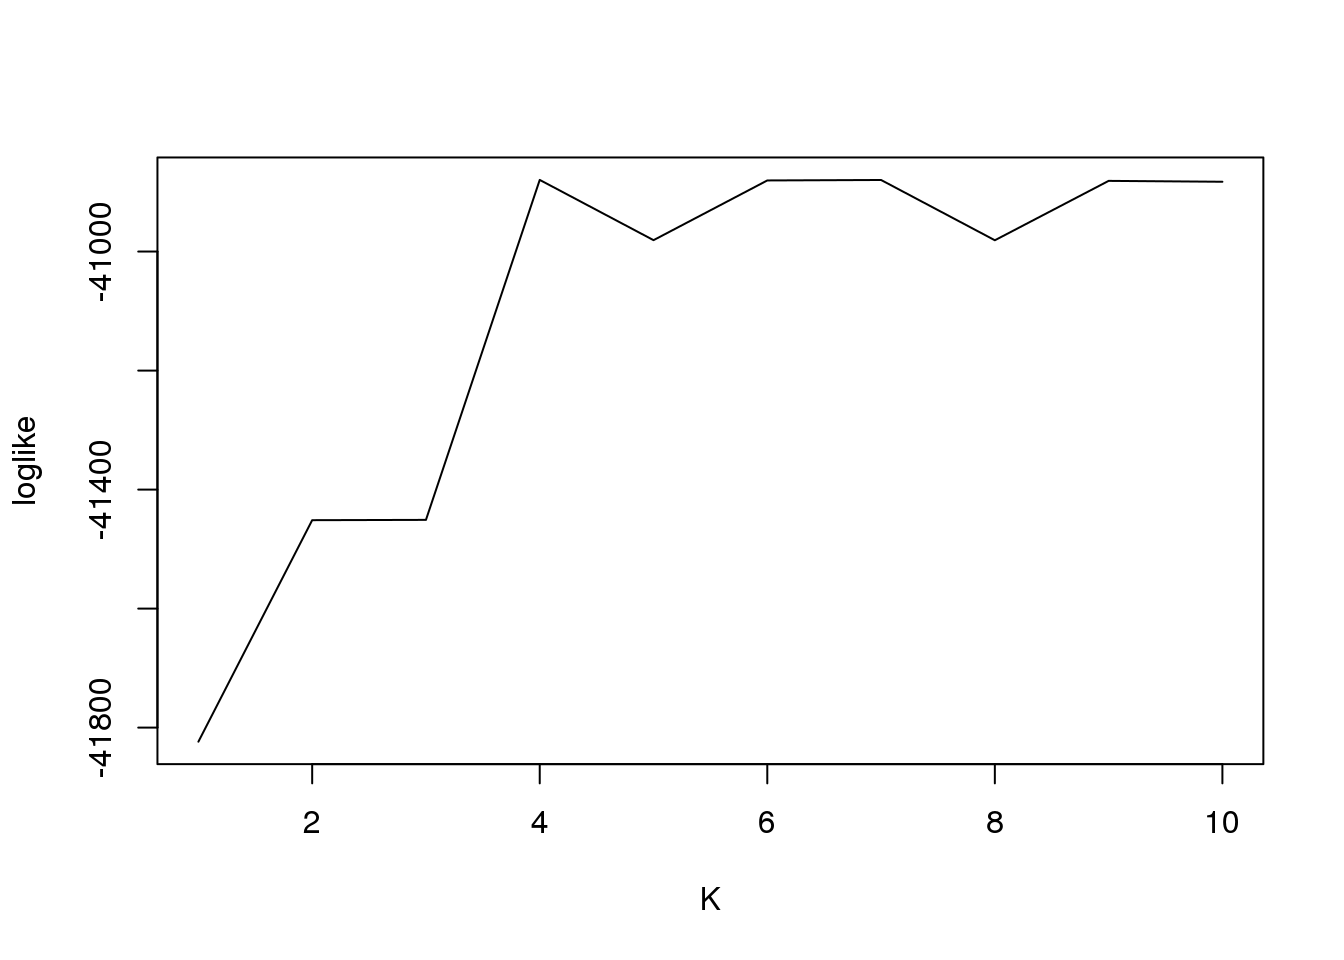
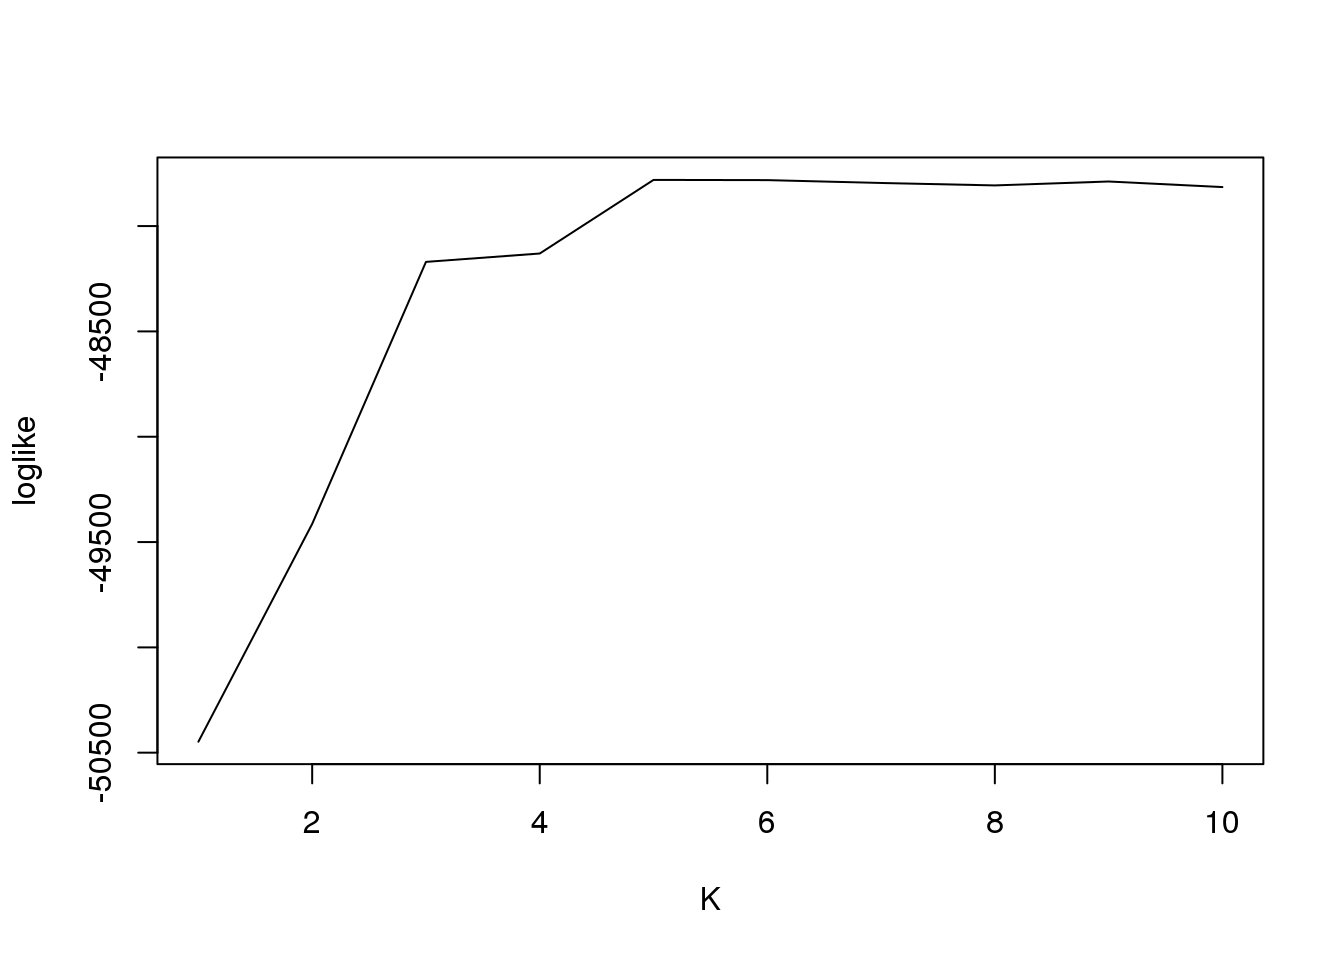
Build site.

diff --git a/docs/Trend_of_loglike.html b/docs/Trend_of_loglike.html
@@ -310,18 +310,33 @@ div.tocify {
 
 <!-- The file analysis/chunks.R contains chunks that define default settings
 shared across the workflowr files. -->
+
+
 <!-- Update knitr chunk options -->
+
+
 <!-- Insert the date the file was last updated -->
 <p><strong>Last updated:</strong> 2017-09-28</p>
 <!-- Insert the code version (Git commit SHA1) if Git repository exists and R
  package git2r is installed -->
-<p><strong>Code version:</strong> 2b43fc0</p>
+<p><strong>Code version:</strong> cdd4dd2</p>
 <!-- Add your analysis here -->
+
+
+
 <div id="simulation-1" class="section level2">
 <h2>Simulation 1</h2>
-<p>We set unit number <span class="math inline">\(n = 5000\)</span>, and study number <span class="math inline">\(R = 4\)</span>. We set every observation has the same standard error, <span class="math inline">\(s_{jr}=1\)</span>. That is <span class="math inline">\(\hat\beta_{jr}|\beta_{jr}\sim N(\beta_{jr};0,1)\)</span>. The 5000 units come from 4 patterns (<span class="math inline">\(K=4\)</span>): 2500 units have zero effects in all four studies, that is <span class="math inline">\(\beta_{jr}=0\)</span>, for <span class="math inline">\(r = 1,2,3,4\)</span>; 1000 units have effect <span class="math inline">\(\beta_{jr}\sim N(0,4^2)\)</span> for <span class="math inline">\(r =1, 2\)</span> and <span class="math inline">\(\beta_{jr}=0\)</span> for <span class="math inline">\(r =3, 4\)</span>; 1000 units have effect <span class="math inline">\(\beta_{jr}\sim N(0,4^2)\)</span> for <span class="math inline">\(r =3, 4\)</span> and <span class="math inline">\(\beta_{jr}=0\)</span> for <span class="math inline">\(r = 1, 2\)</span>; 500 unitss have effect <span class="math inline">\(\beta_{jr}\sim N(0,4^2)\)</span> for <span class="math inline">\(r =1, 2,3,4\)</span>.</p>
-<p>To fit the model, set <span class="math inline">\(K = 1:10\)</span>.</p>
+<p>We set unit number <span class="math">\(n = 5000\)</span>, and study number <span class="math">\(R = 4\)</span>. We set every observation has the same standard error, <span class="math">\(s_{jr}=1\)</span>. That is <span class="math">\(\hat\beta_{jr}|\beta_{jr}\sim N(\beta_{jr};0,1)\)</span>. The 5000 units come from 4 patterns (<span class="math">\(K=4\)</span>): 2500 units have zero effects in all four studies, that is <span class="math">\(\beta_{jr}=0\)</span>, for <span class="math">\(r = 1,2,3,4\)</span>; 1000 units have effect <span class="math">\(\beta_{jr}\sim N(0,4^2)\)</span> for <span class="math">\(r =1, 2\)</span> and <span class="math">\(\beta_{jr}=0\)</span> for <span class="math">\(r =3, 4\)</span>; 1000 units have effect <span class="math">\(\beta_{jr}\sim N(0,4^2)\)</span> for <span class="math">\(r =3, 4\)</span> and <span class="math">\(\beta_{jr}=0\)</span> for <span class="math">\(r = 1, 2\)</span>; 500 unitss have effect <span class="math">\(\beta_{jr}\sim N(0,4^2)\)</span> for <span class="math">\(r =1, 2,3,4\)</span>.</p>
+<p>To fit the model, set <span class="math">\(K = 1:10\)</span>.</p>
 <pre class="r"><code>source(&#39;../code/function.R&#39;)
+source(&#39;../code/lik.R&#39;)
+source(&#39;../code/set_data.R&#39;)
+source(&#39;../code/ash.R&#39;)
+source(&#39;../code/mix.R&#39;)
+source(&#39;../code/normalmix.R&#39;)
+source(&#39;../code/mix_opt.R&#39;)
+source(&#39;../code/output.R&#39;)
+source(&#39;../code/ashutility.R&#39;)
 # Simulate data
 K = 4
 D = 4
@@ -350,21 +365,56 @@ betahat=X
 sebetahat=matrix(1,nrow=G,ncol=D)</code></pre>
 <pre class="r"><code>#fit the model
 fit1 = generic.cormotif(betahat,sebetahat,K=1:10,mess=FALSE)</code></pre>
-<p>The estimated <span class="math inline">\(\pi\)</span> for <span class="math inline">\(K=4\)</span></p>
+<p>The estimated <span class="math">\(\pi\)</span> for <span class="math">\(K=4\)</span></p>
 <pre class="r"><code>fit1$allmotif[[4]]$pi</code></pre>
+<pre><code>[1] 0.50785927 0.20122922 0.09972158 0.19118993</code></pre>
 <p>we can check the BIC and AIC values obtained by all cluster numbers:</p>
 <pre class="r"><code>fit1$bic</code></pre>
+<pre><code>       K      bic
+ [1,]  1 84260.56
+ [2,]  2 84137.81
+ [3,]  3 84758.56
+ [4,]  4 84237.67
+ [5,]  5 85061.94
+ [6,]  6 85482.97
+ [7,]  7 86103.20
+ [8,]  8 86927.53
+ [9,]  9 87349.68
+[10,] 10 87974.39</code></pre>
 <p>The AIC values:</p>
 <pre class="r"><code>fit1$aic</code></pre>
+<pre><code>       K      aic
+ [1,]  1 83791.32
+ [2,]  2 83192.81
+ [3,]  3 83337.81
+ [4,]  4 82341.17
+ [5,]  5 82689.68
+ [6,]  6 82634.96
+ [7,]  7 82779.43
+ [8,]  8 83128.01
+ [9,]  9 83074.40
+[10,] 10 83223.36</code></pre>
 <p>The loglikelihood values:</p>
 <pre class="r"><code>fit1$loglike</code></pre>
+<pre><code>       K   loglike
+ [1,]  1 -41823.66
+ [2,]  2 -41451.41
+ [3,]  3 -41450.90
+ [4,]  4 -40879.58
+ [5,]  5 -40980.84
+ [6,]  6 -40880.48
+ [7,]  7 -40879.72
+ [8,]  8 -40981.01
+ [9,]  9 -40881.20
+[10,] 10 -40882.68</code></pre>
 <p>And plot</p>
 <pre class="r"><code>plot(fit1$loglike[,2],type = &quot;l&quot;,xlab = &quot;K&quot;,ylab = &quot;loglike&quot;)</code></pre>
+<p><img src="figure/Trend_of_loglike.Rmd/unnamed-chunk-7-1.png" width="672" style="display: block; margin: auto;" /></p>
 </div>
 <div id="simulation-2" class="section level2">
 <h2>Simulation 2</h2>
-<p>With the same setting as simulation 1, just change <span class="math inline">\(\beta_{jr}\sim N(0,10^2)\)</span>, we check the same process.</p>
-<p>To fit the model, set <span class="math inline">\(K = 1:10\)</span>.</p>
+<p>With the same setting as simulation 1, just change <span class="math">\(\beta_{jr}\sim N(0,10^2)\)</span>, we check the same process.</p>
+<p>To fit the model, set <span class="math">\(K = 1:10\)</span>.</p>
 <pre class="r"><code>#source(&#39;../code/function.R&#39;)
 # Simulate data
 K = 4
@@ -394,21 +444,56 @@ betahat=X
 sebetahat=matrix(1,nrow=G,ncol=D)</code></pre>
 <pre class="r"><code>#fit the model
 fit2 = generic.cormotif(betahat,sebetahat,K=1:10,mess=FALSE)</code></pre>
-<p>The estimated <span class="math inline">\(\pi\)</span> for <span class="math inline">\(K=4\)</span></p>
+<p>The estimated <span class="math">\(\pi\)</span> for <span class="math">\(K=4\)</span></p>
 <pre class="r"><code>fit2$allmotif[[4]]$pi</code></pre>
+<pre><code>[1] 0.5076009 0.2117091 0.0000000 0.2806900</code></pre>
 <p>we can check the BIC and AIC values obtained by all cluster numbers:</p>
 <pre class="r"><code>fit2$bic</code></pre>
+<pre><code>       K       bic
+ [1,]  1 101610.91
+ [2,]  2 100267.18
+ [3,]  3  98503.55
+ [4,]  4  99147.95
+ [5,]  5  99173.17
+ [6,]  6  99899.04
+ [7,]  7 100650.27
+ [8,]  8 101397.31
+ [9,]  9 102084.07
+[10,] 10 102860.92</code></pre>
 <p>The AIC values:</p>
 <pre class="r"><code>fit2$aic</code></pre>
+<pre><code>       K       aic
+ [1,]  1 101063.47
+ [2,]  2  99165.77
+ [3,]  3  96848.18
+ [4,]  4  96938.62
+ [5,]  5  96409.88
+ [6,]  6  96581.79
+ [7,]  7  96779.06
+ [8,]  8  96972.14
+ [9,]  9  97104.93
+[10,] 10  97327.82</code></pre>
 <p>The loglikelihood values:</p>
 <pre class="r"><code>fit2$loglike</code></pre>
+<pre><code>       K   loglike
+ [1,]  1 -50447.73
+ [2,]  2 -49413.89
+ [3,]  3 -48170.09
+ [4,]  4 -48130.31
+ [5,]  5 -47780.94
+ [6,]  6 -47781.89
+ [7,]  7 -47795.53
+ [8,]  8 -47807.07
+ [9,]  9 -47788.47
+[10,] 10 -47814.91</code></pre>
 <p>And plot</p>
 <pre class="r"><code>plot(fit2$loglike[,2],type = &quot;l&quot;,xlab = &quot;K&quot;,ylab = &quot;loglike&quot;)</code></pre>
+<p><img src="figure/Trend_of_loglike.Rmd/unnamed-chunk-14-1.png" width="672" style="display: block; margin: auto;" /></p>
 </div>
 <div id="simulation-3" class="section level2">
 <h2>Simulation 3</h2>
 <p>With the same setting as simulation 1, just change the proportion of 4 patterns to 1250:1250:1250:1250, we check the same process.</p>
-<p>To fit the model, set <span class="math inline">\(K = 1:10\)</span>.</p>
+<p>To fit the model, set <span class="math">\(K = 1:10\)</span>.</p>
 <pre class="r"><code>#source(&#39;../code/function.R&#39;)
 # Simulate data
 K = 4
@@ -438,21 +523,85 @@ betahat=X
 sebetahat=matrix(1,nrow=G,ncol=D)</code></pre>
 <pre class="r"><code>#fit the model
 fit3 = generic.cormotif(betahat,sebetahat,K=1:10,mess=FALSE)</code></pre>
-<p>The estimated <span class="math inline">\(\pi\)</span> for <span class="math inline">\(K=4\)</span></p>
+<p>The estimated <span class="math">\(\pi\)</span> for <span class="math">\(K=4\)</span></p>
 <pre class="r"><code>fit3$allmotif[[4]]$pi</code></pre>
+<pre><code>[1] 0.2606255 0.2594550 0.2651993 0.2147203</code></pre>
 <p>we can check the BIC and AIC values obtained by all cluster numbers:</p>
 <pre class="r"><code>fit3$bic</code></pre>
+<pre><code>       K      bic
+ [1,]  1 96195.42
+ [2,]  2 96275.35
+ [3,]  3 95817.90
+ [4,]  4 96144.90
+ [5,]  5 96769.62
+ [6,]  6 97387.08
+ [7,]  7 98307.05
+ [8,]  8 98633.63
+ [9,]  9 99258.91
+[10,] 10 99886.75</code></pre>
 <p>The AIC values:</p>
 <pre class="r"><code>fit3$aic</code></pre>
+<pre><code>       K      aic
+ [1,]  1 95726.19
+ [2,]  2 95330.36
+ [3,]  3 94397.15
+ [4,]  4 94248.40
+ [5,]  5 94397.36
+ [6,]  6 94539.07
+ [7,]  7 94983.28
+ [8,]  8 94834.11
+ [9,]  9 94983.63
+[10,] 10 95135.71</code></pre>
 <p>The loglikelihood values:</p>
 <pre class="r"><code>fit3$loglike</code></pre>
+<pre><code>       K   loglike
+ [1,]  1 -47791.09
+ [2,]  2 -47520.18
+ [3,]  3 -46980.58
+ [4,]  4 -46833.20
+ [5,]  5 -46834.68
+ [6,]  6 -46832.53
+ [7,]  7 -46981.64
+ [8,]  8 -46834.05
+ [9,]  9 -46835.81
+[10,] 10 -46838.86</code></pre>
 <p>And plot</p>
 <pre class="r"><code>plot(fit3$loglike[,2],type = &quot;l&quot;,xlab = &quot;K&quot;,ylab = &quot;loglike&quot;)</code></pre>
+<p><img src="figure/Trend_of_loglike.Rmd/unnamed-chunk-21-1.png" width="672" style="display: block; margin: auto;" /></p>
 </div>
 <div id="session-information" class="section level2">
 <h2>Session information</h2>
 <!-- Insert the session information into the document -->
+
 <pre class="r"><code>sessionInfo()</code></pre>
+<pre><code>R version 3.3.3 (2017-03-06)
+Platform: x86_64-redhat-linux-gnu (64-bit)
+Running under: Scientific Linux 7.2 (Nitrogen)
+
+locale:
+ [1] LC_CTYPE=en_US.UTF-8       LC_NUMERIC=C              
+ [3] LC_TIME=en_US.UTF-8        LC_COLLATE=en_US.UTF-8    
+ [5] LC_MONETARY=en_US.UTF-8    LC_MESSAGES=en_US.UTF-8   
+ [7] LC_PAPER=en_US.UTF-8       LC_NAME=C                 
+ [9] LC_ADDRESS=C               LC_TELEPHONE=C            
+[11] LC_MEASUREMENT=en_US.UTF-8 LC_IDENTIFICATION=C       
+
+attached base packages:
+[1] stats     graphics  grDevices utils     datasets  base     
+
+other attached packages:
+[1] SQUAREM_2016.8-2
+
+loaded via a namespace (and not attached):
+ [1] Rcpp_0.12.12       lattice_0.20-34    codetools_0.2-15  
+ [4] digest_0.6.12      rprojroot_1.2      MASS_7.3-45       
+ [7] grid_3.3.3         MatrixModels_0.4-1 backports_1.1.1   
+[10] git2r_0.19.0       magrittr_1.5       coda_0.19-1       
+[13] evaluate_0.10.1    stringi_1.1.5      SparseM_1.77      
+[16] Matrix_1.2-8       rmarkdown_1.6      tools_3.3.3       
+[19] stringr_1.2.0      compiler_3.3.3     yaml_2.1.14       
+[22] mcmc_0.9-5         htmltools_0.3.6    knitr_1.17        
+[25] quantreg_5.33      MCMCpack_1.4-0     methods_3.3.3     </code></pre>
 </div>
 
 <hr>
